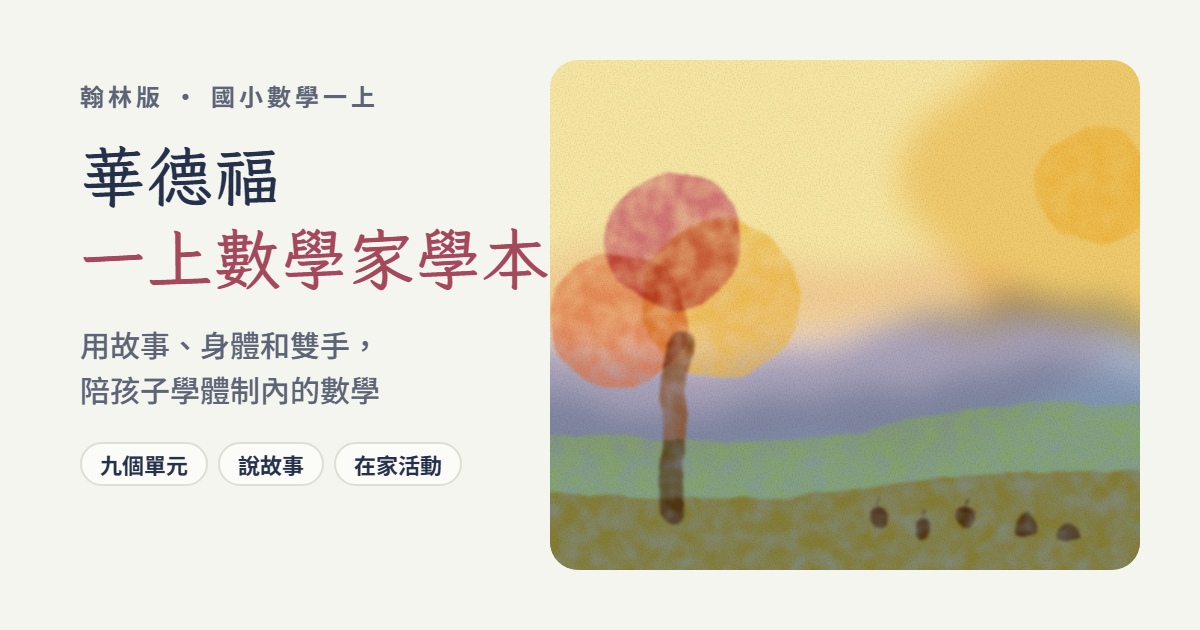
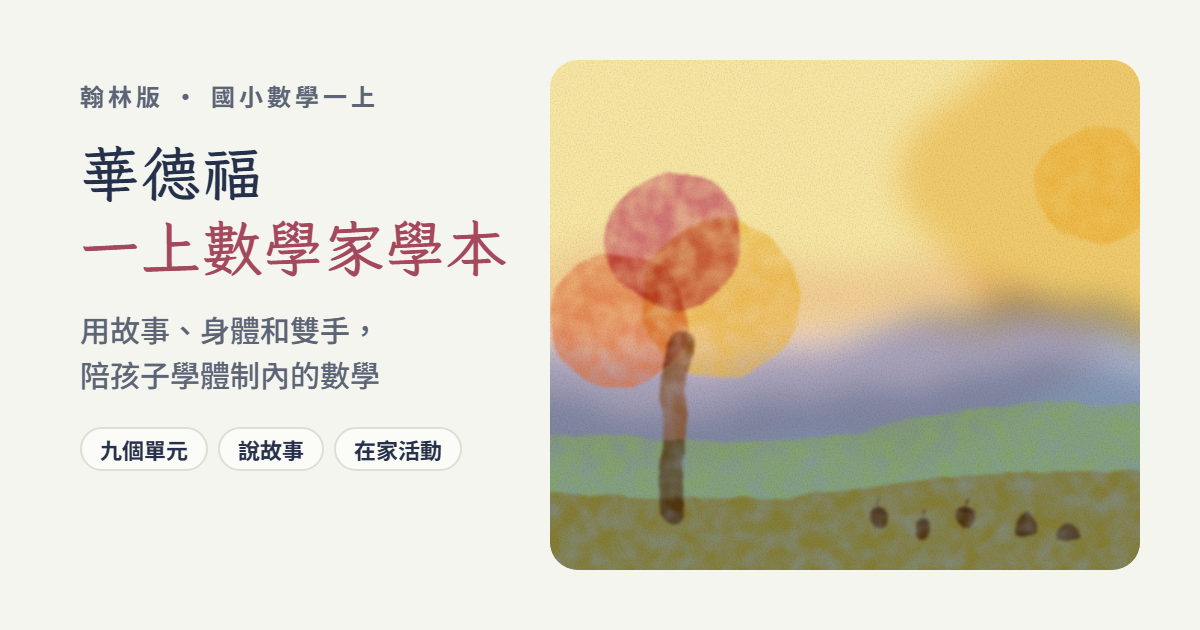
Fit OG image title on one line

Changed region(s): [[0.0617, 0.4825, 0.37, 0.7841], [0.0617, 0.2111, 0.4625, 0.4524]]

diff --git a/design/og-image.html b/design/og-image.html
@@ -37,7 +37,7 @@
     h1 {
       margin: 22px 0 22px;
       font-family: "LXGW WenKai TC", "DFKai-SB", serif;
-      font-size: 66px;
+      font-size: 60px;
       font-weight: 700;
       line-height: 1.25;
       letter-spacing: 1px;
